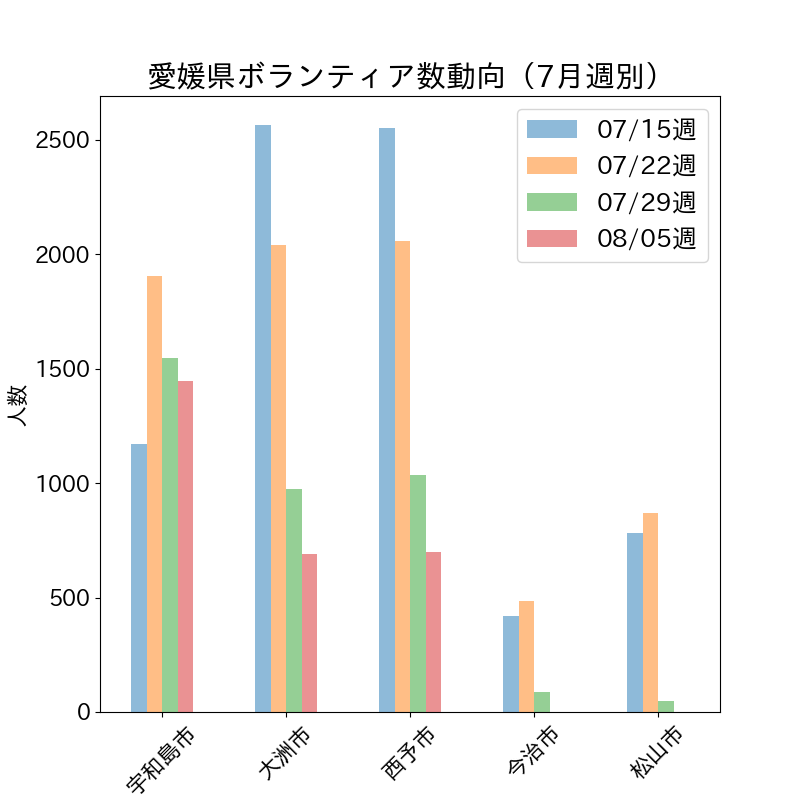
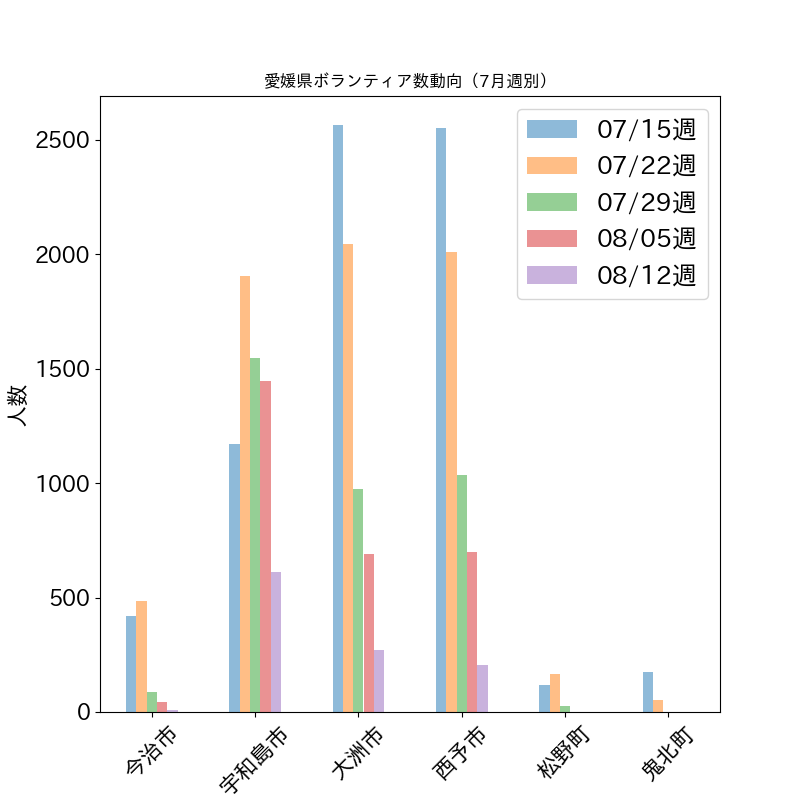
8/8分更新

diff --git a/_pages/volunteer_aggregation.md b/_pages/volunteer_aggregation.md
@@ -1,17 +1,17 @@
 ---
-title: 【8/7版 愛媛県ボランティア数動向】
+title: 【8/8版 愛媛県ボランティア数動向】
 description: 松山市社協、八幡浜市社協、愛媛災害支援センターが公開しているデータを元に、ボランティア数のグラフを作成・公開しています。
 permalink: /volunteer/aggregation/
 date: 2018-07-18 05:59:06 +0900
-last_modified_at: 2018-08-08 10:28:18 +0900
+last_modified_at: 2018-08-08 23:03:14 +0900
 sidebar:
   nav: volunteer_menu
 
 ---
 
-## 【8/7から過去一週間分データ更新】
+## 【8/8から過去一週間分データ更新】
 
-各社協、ボランティアセンターが公開している情報を元に、愛媛県内のボランティア数の一覧とグラフを公開しています。データ数が増えてきたので過去８日以内の表示にしています。8/3までの全データは[こちら](https://docs.google.com/spreadsheets/d/1h-GFHoNa55P96wu_HNbPk899eN4HZcnu1T9q4eag8Uc/edit#gid=0)にあります。現在は災害VCのデータから直接グラフを作成しています。 [^1]
+各社協、ボランティアセンターが公開している情報を元に、愛媛県内のボランティア数の一覧とグラフを公開しています。データ数が増えてきたので過去８日以内の表示にしています。8/5までデータは[こちら](https://docs.google.com/spreadsheets/d/1h-GFHoNa55P96wu_HNbPk899eN4HZcnu1T9q4eag8Uc/edit#gid=0)にあります。 現在は[愛媛県災害ボランティア特設サイト](https://ehimesvc.jp/)から直接取得しています。 [^1]
 
 ## 【ボランティア募集数と実績数比較】
 
@@ -19,21 +19,21 @@ sidebar:
 
 ### 宇和島市
 
-平日の募集は200人、休日の募集が400人となっていますが、ここ一週間は募集人数にほぼ近い実績値になっています。
+平日の募集は300人、個人は四国圏内からの募集となっています。
 
- ![宇和島ボラ数（募集と実績）](/assets/images/volunteer_headcount/宇和島市_volunteer_headcount_diff_20180807.png)
+ ![宇和島ボラ数（募集と実績）](/assets/images/volunteer_headcount/宇和島市_volunteer_headcount_diff_20180808.png)
 
 ### 大洲市
 
-平日の募集は120〜150人であり、平日・休日ともに概ね募集人数に近い実績数となっています。
+平日の募集は100〜150人で、県内限定の募集となっています。
 
- ![大洲市ボラ数（募集と実績）](/assets/images/volunteer_headcount/大洲市_volunteer_headcount_diff_20180807.png)
+ ![大洲市ボラ数（募集と実績）](/assets/images/volunteer_headcount/大洲市_volunteer_headcount_diff_20180808.png)
 
 ### 西予市
 
-募集は平日・休日問わず300人となっていますが、平日・休日含め**募集人数が集まっていない**ようです。
+ニーズの数に合わせてボランティア募集数も変動するようになりました。全国から募集しています。
 
- ![大洲市ボラ数（募集と実績）](/assets/images/volunteer_headcount/西予市_volunteer_headcount_diff_20180807.png)
+ ![西予市ボラ数（募集と実績）](/assets/images/volunteer_headcount/西予市_volunteer_headcount_diff_20180808.png)
 
 ### まとめ
 
@@ -42,9 +42,9 @@ sidebar:
 
 エリア | 前日比 | 前週同日比
 ---------|----------|---------
- 宇和島市 | :arrow_lower_right:-147.0 | :arrow_upper_right:74.0
- 大洲市  | :arrow_upper_right:21.0 | :arrow_lower_right:-9.0
- 西予市  | :arrow_lower_right:-68.0 | :arrow_lower_right:-7.0
+ 宇和島市 | :arrow_upper_right:27.0 | :arrow_lower_right:-145.0
+ 大洲市  | :arrow_upper_right:6.0 | :arrow_lower_right:-78.0
+ 西予市  | :arrow_lower_right:-68.0 | :arrow_right:0.0
 
 
 
@@ -64,8 +64,9 @@ sidebar:
 | 08/03  |        2 |        252 |       96 |       78 |        0 |        0 |
 | 08/04  |       16 |        300 |       95 |      231 |        0 |        0 |
 | 08/05  |       20 |        251 |      134 |      180 |        0 |        0 |
-| 08/06  |        0 |        293 |       74 |      136 |        0 |        0 |
-| 08/07  |        0 |        146 |       95 |       68 |        0 |        0 |
+| 08/06  |        3 |        293 |       74 |      136 |        0 |        0 |
+| 08/07  |        3 |        146 |       95 |       68 |        0 |        0 |
+| 08/08  |        3 |        173 |      101 |        0 |        0 |        0 |
 
 ## 【週毎のボランティア数動向】
 
@@ -77,7 +78,7 @@ sidebar:
 | 07/22週 |      484 |       1902 |     2044 |     2011 |      164 |       53 |
 | 07/29週 |       87 |       1546 |      976 |     1036 |       26 |        0 |
 | 08/05週 |       43 |       1446 |      689 |      700 |        0 |        0 |
-| 08/12週 |        0 |        439 |      169 |      204 |        0 |        0 |
+| 08/12週 |        9 |        612 |      270 |      204 |        0 |        0 |
 
 ### 元データ
 
